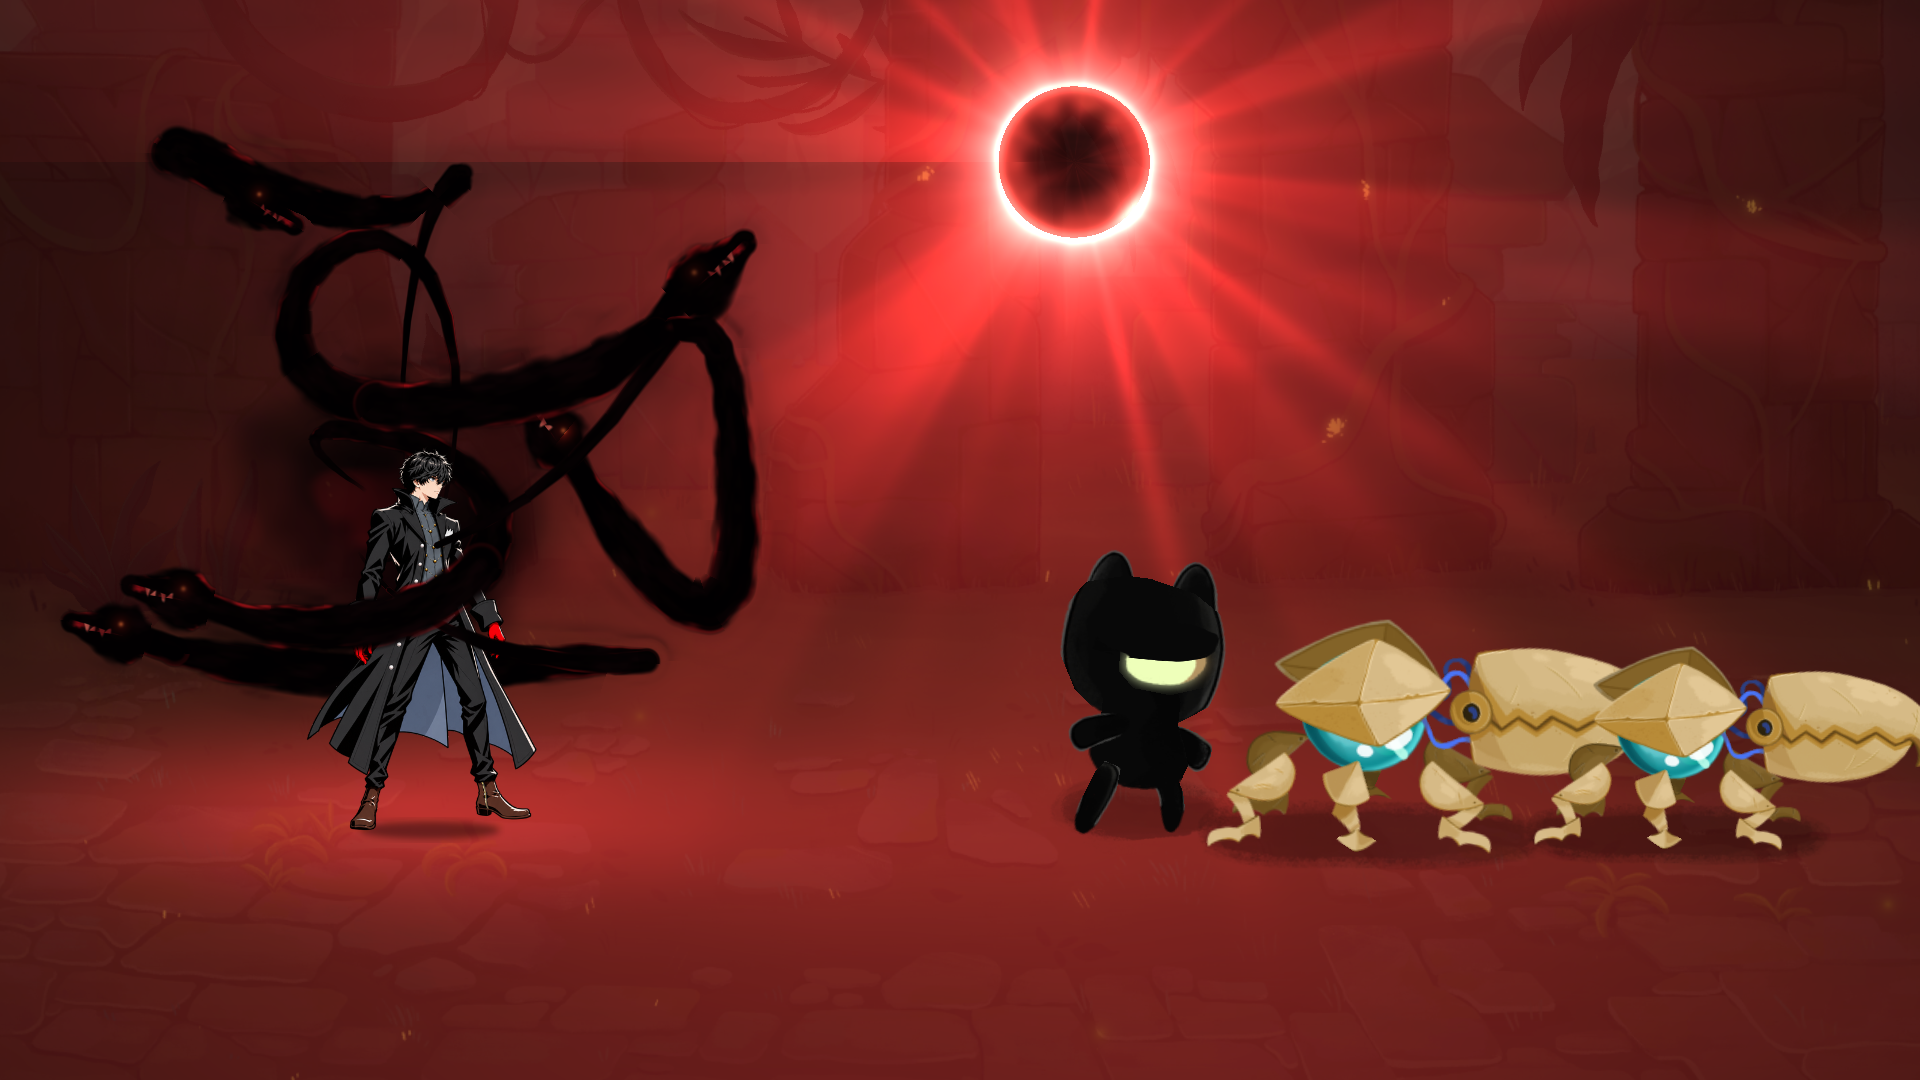
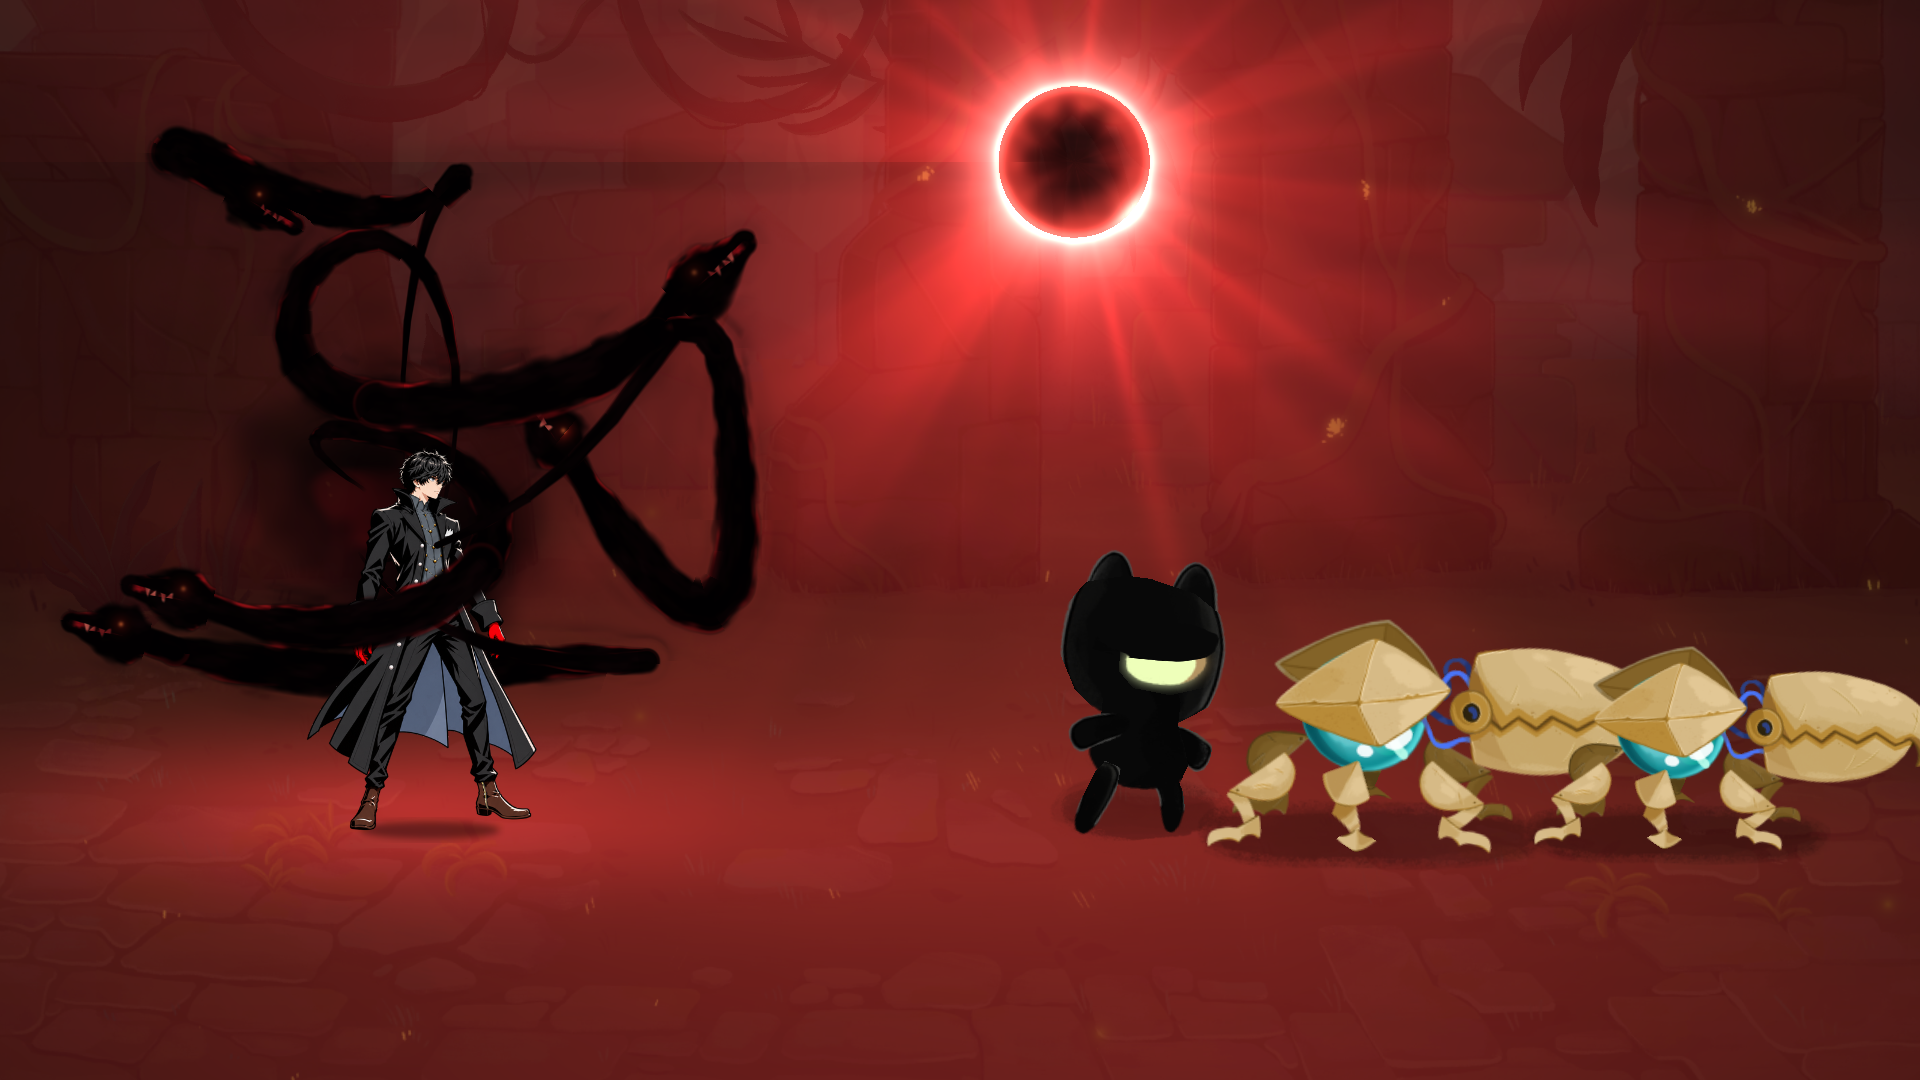
Eclipse sky for Serpent Form: weaker rays and halo now that they pass through the clouds (user: a bit too strong)
Claude-Session: https://claude.ai/code/session_01KgS2yLiuGvw74uPNGT9TP3

diff --git a/p5mod/src/Vfx/EclipseSky.cs b/p5mod/src/Vfx/EclipseSky.cs
@@ -53,7 +53,7 @@ void fragment() {
 	float corona = exp(-max(r - R, 0.0) / mix(0.014, 0.022, blend)) * step(R, r) * 0.8;
 	float halo = exp(-max(r - R, 0.0) / mix(0.2, 0.26, blend));
 	float rays = pow(noise(vec2(ang * 9.0, clock * 0.05)), 3.0) * exp(-max(r - R, 0.0) / 0.7) * (1.0 - cloud * mix(0.8, 0.1, blend)) * mix(smoothstep(ground - 0.02, ground - 0.25, uv.y), smoothstep(ground + 0.2, ground - 0.4, uv.y), blend);
-	vec3 light = vec3(1.0, 0.85, 0.75) * corona * 1.4 + vec3(0.9, 0.08, 0.06) * (halo * 0.9 + rays * 0.55);
+	vec3 light = vec3(1.0, 0.85, 0.75) * corona * 1.4 + vec3(0.9, 0.08, 0.06) * (halo * mix(0.9, 0.75, blend) + rays * mix(0.55, 0.3, blend));   // 群蛇形态：光穿过云以后调弱一点（用户）
 	light *= 1.0 - cloud * mix(0.6, 0.08, blend);   // 群蛇形态（用户：云别挡光）：光穿过云
 	col += light;
 	// 日冕的光洒满整个战场（用户：光影在中间断层）：从日蚀往下、往两边一大片暗红的泛光，地面被照出一大片暖红
